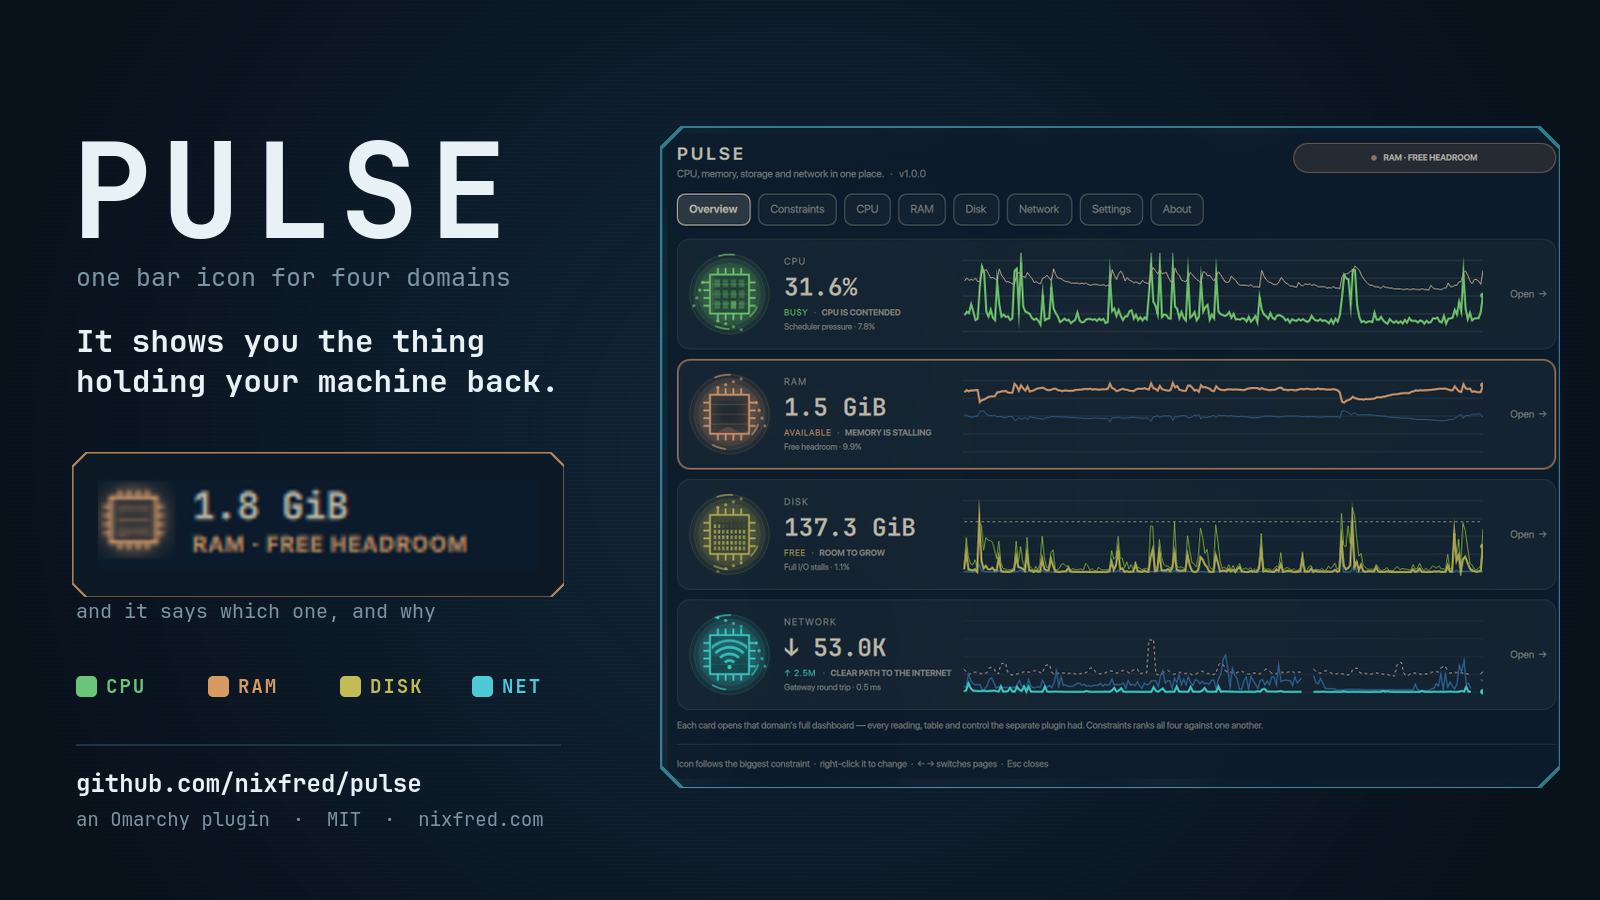
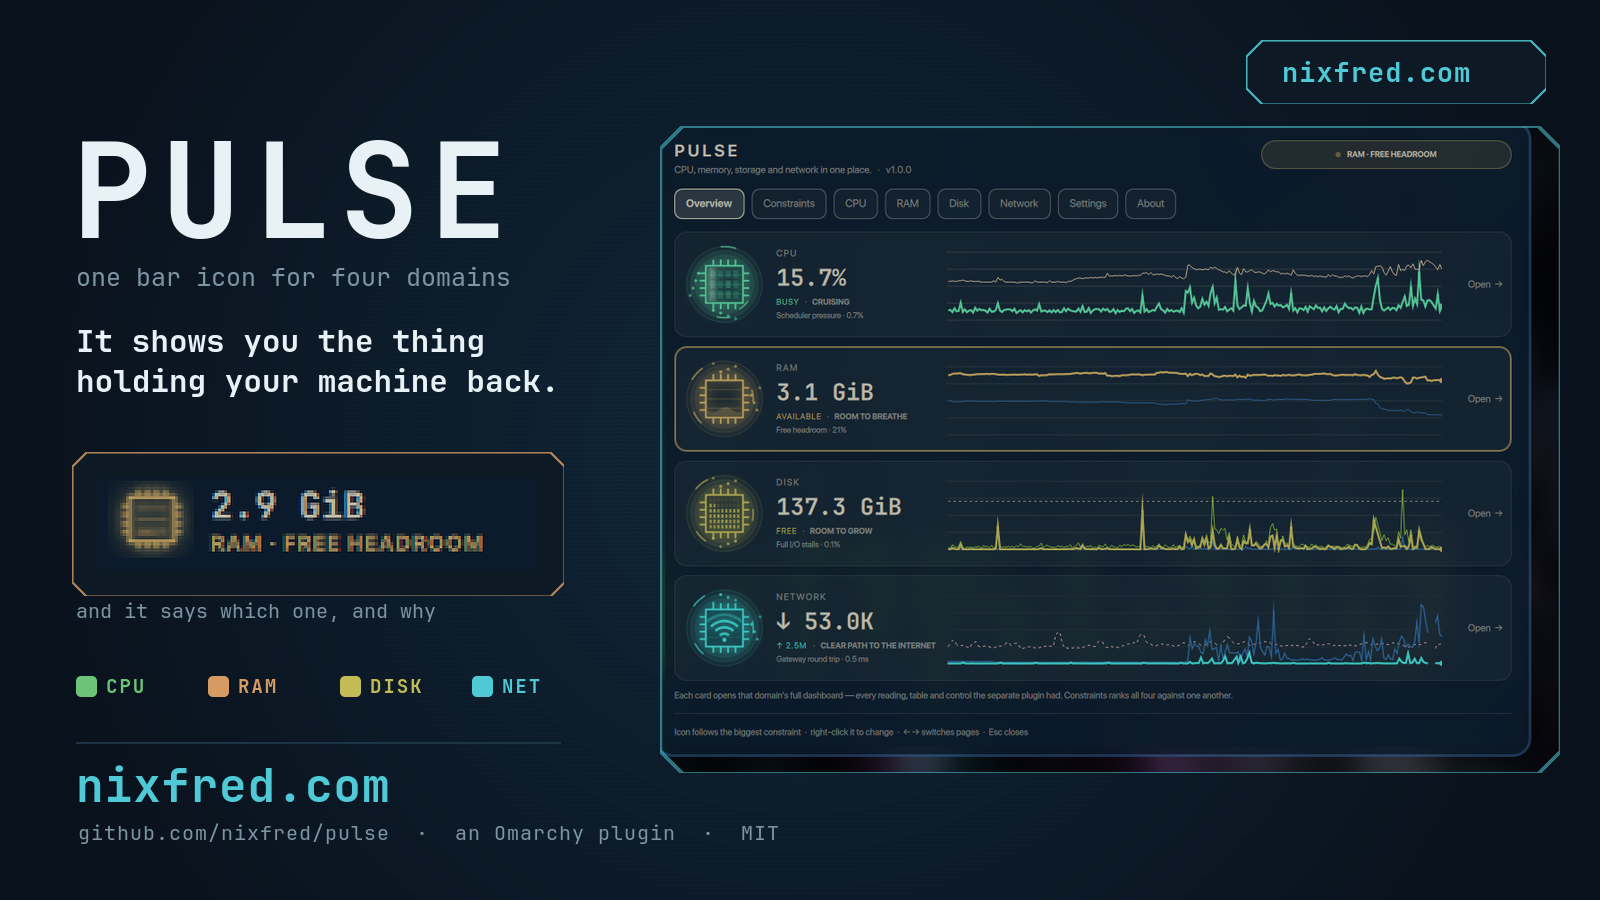
feat: give nixfred.com top billing on the card, in the README and in the panel
The site was a dim word in a grey credits line in all three places. It is the
byline, so it now reads as one.

CARD: nixfred.com set at 46pt in the network tint as the footer's first line,
with the repo and licence demoted beneath it, plus a chamfered brand plate in
the top-right corner so the site survives a timeline thumbnail crop.

README: a heading-level link and a for-the-badge button directly under the
hero, and a second heading-level link in the credits. Both are real link
targets rather than text inside a sentence.

ABOUT PAGE: the byline is now a bordered, accented, 44px-tall plate with its
own hover state, sitting beside a quieter plate for the repo. An About page
whose links need aiming at does not get followed.

ALSO: status() reports the popup's card origin and padding, so a screenshot can
be cropped to the panel from the panel's own geometry. The previous shots used
a fixed offset, which silently went wrong the moment the bar icon's caption
changed width and moved the popup under it. Every screenshot in docs/img was
retaken through that path, with the network ones captured against RFC 5737 /
RFC 7042 documentation values as before.

TAGS: omarchy, plugin, pulse, branding, readme, about
LR-T: nixfred-byline, panel-geometry-in-status
LR-D: omarchy, docs, design
LR-K: crop-a-screenshot-from-the-panels-own-geometry
LR-E: medium
LR-P: shipped

Claude-Session: https://claude.ai/code/session_012Z2oqfkeNehrJnPQXJFyqe

diff --git a/sections/AboutPage.qml b/sections/AboutPage.qml
@@ -103,29 +103,67 @@ Item {
         // follows.
         Row {
             width: parent.width
-            spacing: 8
-            Text {
-                text: 'Source'
-                color: root.inkDim
-                font.pixelSize: 12
-                font.bold: true
-                textFormat: Text.PlainText
+            spacing: 12
+
+            // The byline is a button-sized target, not a word in a sentence.
+            // An About page whose links need aiming at does not get followed.
+            Rectangle {
+                id: sitePlate
+                width: siteText.implicitWidth + 40
+                height: 44
+                radius: 10
+                color: siteArea.containsMouse ? Qt.alpha(Color.accent, 0.26) : Qt.alpha(Color.accent, 0.14)
+                border.color: Qt.alpha(Color.accent, siteArea.containsMouse ? 0.9 : 0.55)
+                border.width: 2
+                Behavior on color { ColorAnimation { duration: 120 } }
+                Text {
+                    id: siteText
+                    anchors.centerIn: parent
+                    text: 'nixfred.com'
+                    color: root.ink
+                    font.family: Style.font.family
+                    font.pixelSize: 19
+                    font.bold: true
+                    textFormat: Text.PlainText
+                }
+                MouseArea {
+                    id: siteArea
+                    anchors.fill: parent
+                    hoverEnabled: true
+                    cursorShape: Qt.PointingHandCursor
+                    onClicked: root.openUrl(root.siteUrl)
+                }
             }
-            Link { text: 'github.com/nixfred/pulse'; url: root.repoUrl }
-            Text { text: '·'; color: root.inkDim; font.pixelSize: 12 }
-            Text {
-                text: 'Built by'
-                color: root.inkDim
-                font.pixelSize: 12
-                font.bold: true
-                textFormat: Text.PlainText
+
+            Rectangle {
+                width: repoText.implicitWidth + 34
+                height: 44
+                radius: 10
+                color: repoArea.containsMouse ? Style.hoverFill : Style.normalFill
+                border.color: repoArea.containsMouse ? Style.hoverBorderColor : Style.normalBorderColor
+                Behavior on color { ColorAnimation { duration: 120 } }
+                Text {
+                    id: repoText
+                    anchors.centerIn: parent
+                    text: 'github.com/nixfred/pulse'
+                    color: root.inkDim
+                    font.pixelSize: 14
+                    textFormat: Text.PlainText
+                }
+                MouseArea {
+                    id: repoArea
+                    anchors.fill: parent
+                    hoverEnabled: true
+                    cursorShape: Qt.PointingHandCursor
+                    onClicked: root.openUrl(root.repoUrl)
+                }
             }
-            Link { text: 'nixfred.com'; url: root.siteUrl }
-            Text { text: '·'; color: root.inkDim; font.pixelSize: 12 }
+
             Text {
+                anchors.verticalCenter: parent.verticalCenter
                 text: 'MIT'
                 color: root.inkDim
-                font.pixelSize: 12
+                font.pixelSize: 13
                 textFormat: Text.PlainText
             }
         }

diff --git a/Panel.qml b/Panel.qml
@@ -149,6 +149,8 @@ Panel {
             // Content geometry, so a caller can crop a screenshot to the panel
             // without guessing where it ends.
             panelWidth: panel.contentWidth, panelHeight: panel.contentHeight,
+            panelX: Math.round(panel.cardOrigin.x), panelY: Math.round(panel.cardOrigin.y),
+            panelPad: panel.padding,
             cpu: cpuSection.status ? JSON.parse(cpuSection.status()) : null,
             ram: ramSection.status ? JSON.parse(ramSection.status()) : null,
             disk: diskSection.status ? JSON.parse(diskSection.status()) : null,

diff --git a/README.md b/README.md
@@ -8,10 +8,14 @@
 
 CPU, memory, storage and network — four dashboards, one widget, zero guessing about which one is the problem.
 
+## [nixfred.com](https://nixfred.com)
+
+[![nixfred.com](https://img.shields.io/badge/nixfred.com-4fc9d6?style=for-the-badge&logoColor=white)](https://nixfred.com)
+[![More Omarchy plugins](https://img.shields.io/badge/more%20Omarchy%20plugins-0d1a26?style=for-the-badge)](https://omarchy.nixfred.com)
+
 [![Omarchy](https://img.shields.io/badge/Omarchy-plugin-00d3f2?style=flat-square)](https://omarchy.org)
 [![Quickshell](https://img.shields.io/badge/Quickshell-QML-5e81ac?style=flat-square)](https://quickshell.org)
 [![License](https://img.shields.io/badge/license-MIT-a3be8c?style=flat-square)](LICENSE)
-[![nixfred.com](https://img.shields.io/badge/built%20by-nixfred.com-e0a458?style=flat-square)](https://nixfred.com)
 
 </div>
 
@@ -221,7 +225,10 @@ Pulse is the merge of four plugins:
 - [Disk Pulse](https://github.com/nixfred/disk.pulse)
 - [Net Pulse](https://github.com/nixfred/omanet.plugin.omarchy)
 
-Built for [Omarchy](https://omarchy.org) by [Fred Nix](https://nixfred.com) ·
-more plugins at [omarchy.nixfred.com](https://omarchy.nixfred.com)
+Built for [Omarchy](https://omarchy.org) by Fred Nix.
+
+## → [nixfred.com](https://nixfred.com)
+
+More Omarchy plugins: **[omarchy.nixfred.com](https://omarchy.nixfred.com)**
 
 MIT.
